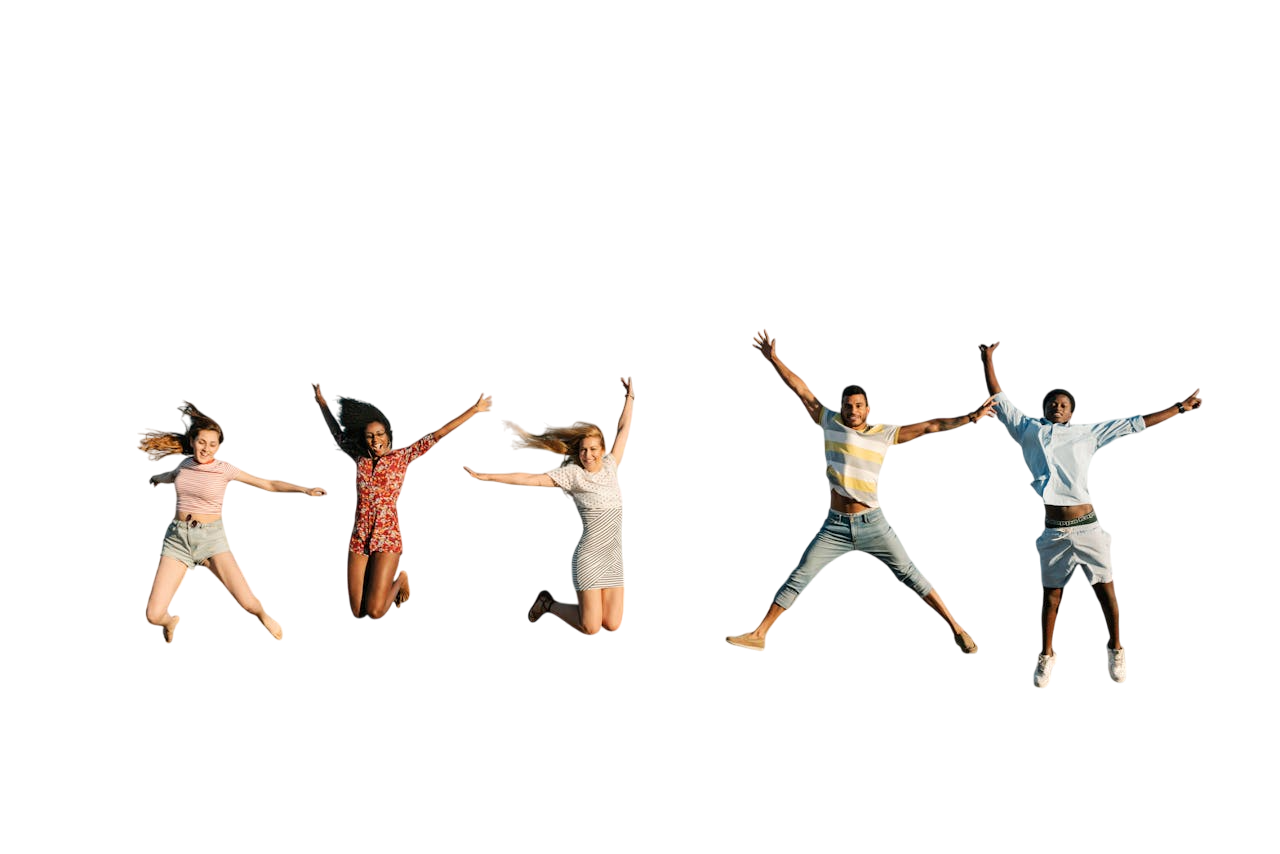
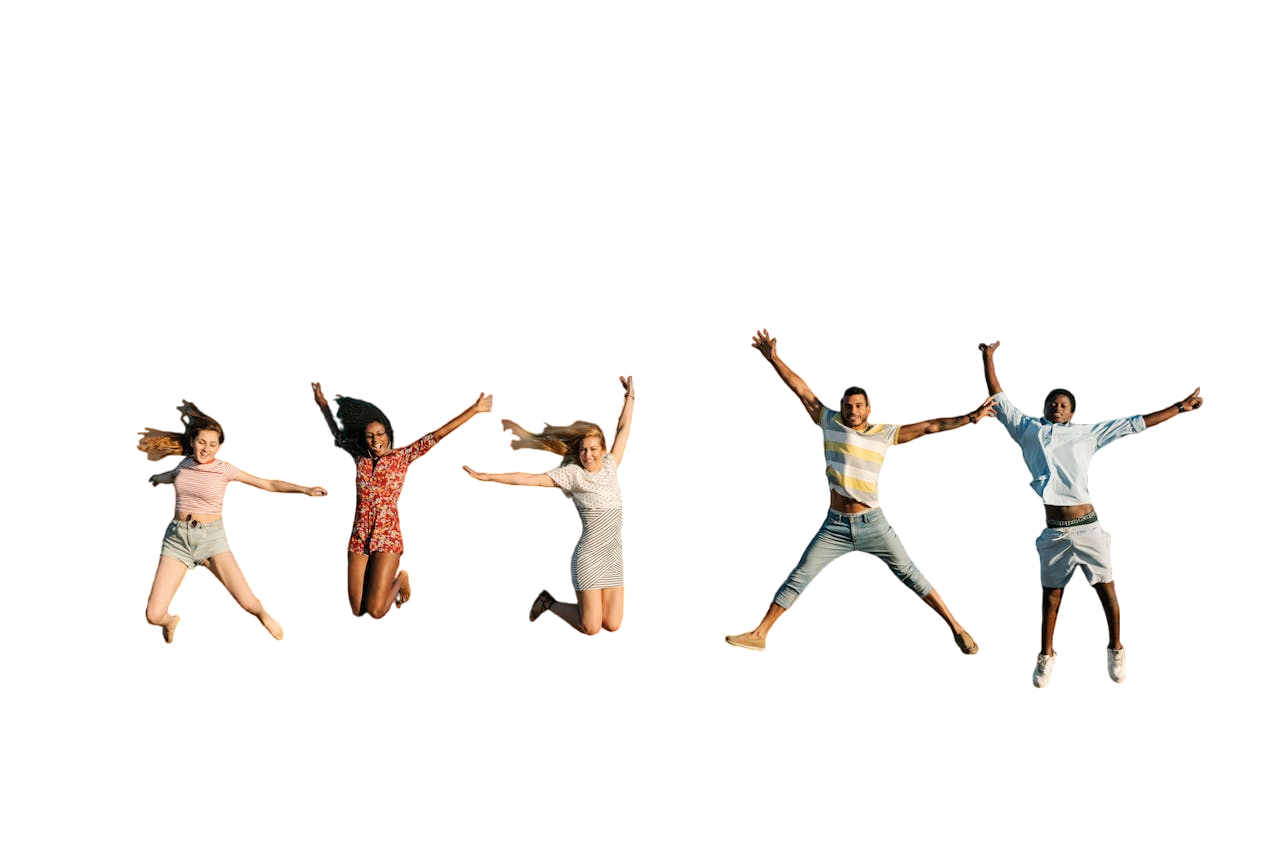
Login page - ui

diff --git a/client/src/pages/Login.jsx b/client/src/pages/Login.jsx
@@ -1,7 +1,41 @@
 import React from 'react'
+import { assets } from '../assets/assets'
 
 const Login = () => {
-  return <div>Login</div>
+  return (
+    <div className='min-h-screen flex flex-col md:flex-row'>
+      {/* Background Image */}
+      <img
+        src={assets.bgImage}
+        alt=''
+        className='absolute top-0 left-0 -z-1 w-full h-full object-cover'
+      />
+
+      {/* Left side : Branding */}
+      <div className='flex-1 flex flex-col items-start justify-between p-6 md:p-10 lg:pl-40'>
+        <div className='flex items-center'>
+          <img src={assets.logo} alt='' className='h-12 object-contain' />
+          <p className='text-xl text-primary-100 ml-2 font-semibold'>Flow</p>
+        </div>
+        <div className='flex flex-col'>
+          <div className='mb-8 flex items-center justify-center'>
+            <img src={assets.login_2} alt='' className='object-cover' />
+          </div>
+
+          <h1 className='text-3xl md:text-6xl md:pb-2 font-bold bg-gradient-to-r from-primary-100 to-secondary bg-clip-text text-transparent mb-2'>
+            Discover the Joy of Connecting
+          </h1>
+          <p className='text-xl md:text-3xl text-primary-200 max-w-72 md:max-w-md'>
+            your new place for sharing life's moments!
+          </p>
+        </div>
+        <span className='md:h-10'></span>
+      </div>
+
+      {/* Right side: Login Form */}
+      <div className='flex-1 flex items-center justify-center p-6 sm:p-10'></div>
+    </div>
+  )
 }
 
 export default Login

diff --git a/client/src/assets/assets.js b/client/src/assets/assets.js
@@ -5,7 +5,7 @@ import sample_profile from './sample_profile.jpg'
 import bgImage from './bgImage.png'
 import group_users from './group_users.png'
 import { Home, MessageCircle, Search, UserIcon, Users } from 'lucide-react'
-import sponsored_img from './sponsored_img.png'
+import sponsored_img from './sponsored_img.jpg'
 import login_1 from './login-1.png'
 import login_2 from './login-2.png'
 

diff --git a/client/src/index.css b/client/src/index.css
@@ -6,5 +6,8 @@
 }
 
 @theme {
-  --color-primary: #007f5f;
+  --color-primary-100: #007f5f;
+  --color-primary-200: #2b9348;
+  --color-secondary: #62bf37;
+  /* --color-secondary: #6bd33b; */
 }
